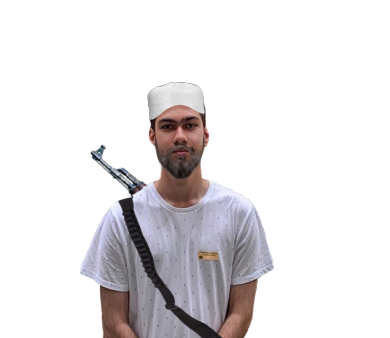
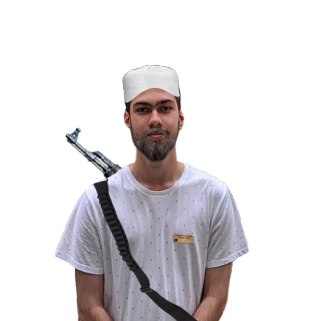
first

Changed region(s): [[0.1748, 0.1869, 0.8155, 1.0]]

diff --git a/core/index.html b/core/index.html
@@ -74,11 +74,12 @@ Join us, in this beautiful society.</p>
                 <div class="row">
                     <h2>Our Supreme Leader</h2>
                     <p class="minipad">Our Supreme Leader - Sir Sidhya Al-Haq, is our messiah <br> our hope <br> our life.</p>
-                    <div align='center'>
-                        <img src="./images/core123.png">
-					
-                    </div>
-                    
+                  
+                      <div align='center'>
+                        <img src="./images/core123.png" >
+                      </div>
+                        
+
                 </div>
             </div>
     </section>

diff --git a/core/css/style.css b/core/css/style.css
@@ -97,7 +97,7 @@ footer {
 
 #members img {
   
-    width: 5em;
+   
 }
 #members p {
     margin-top: -1.2vw;
